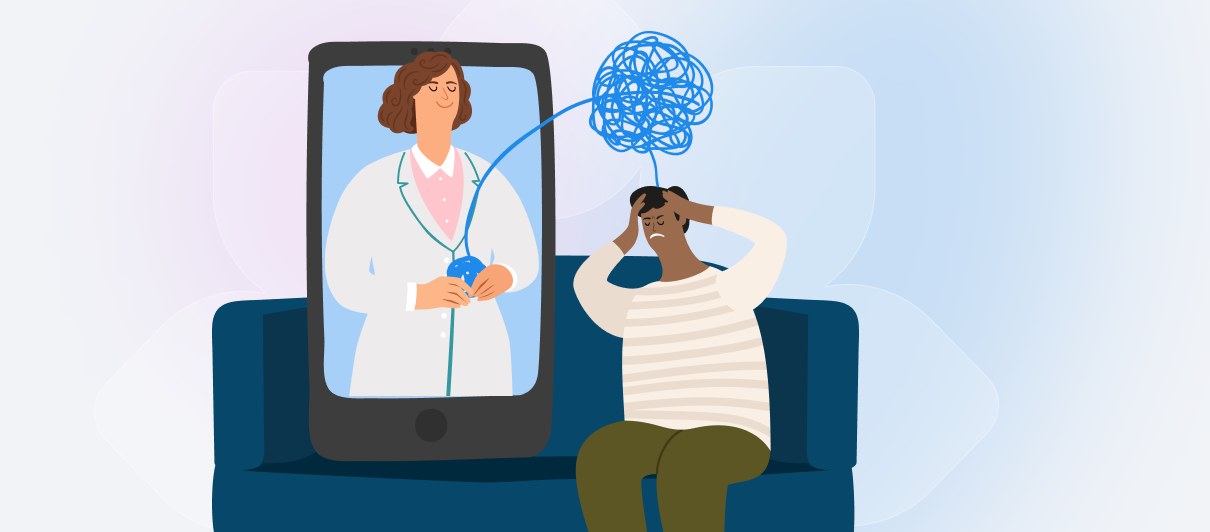
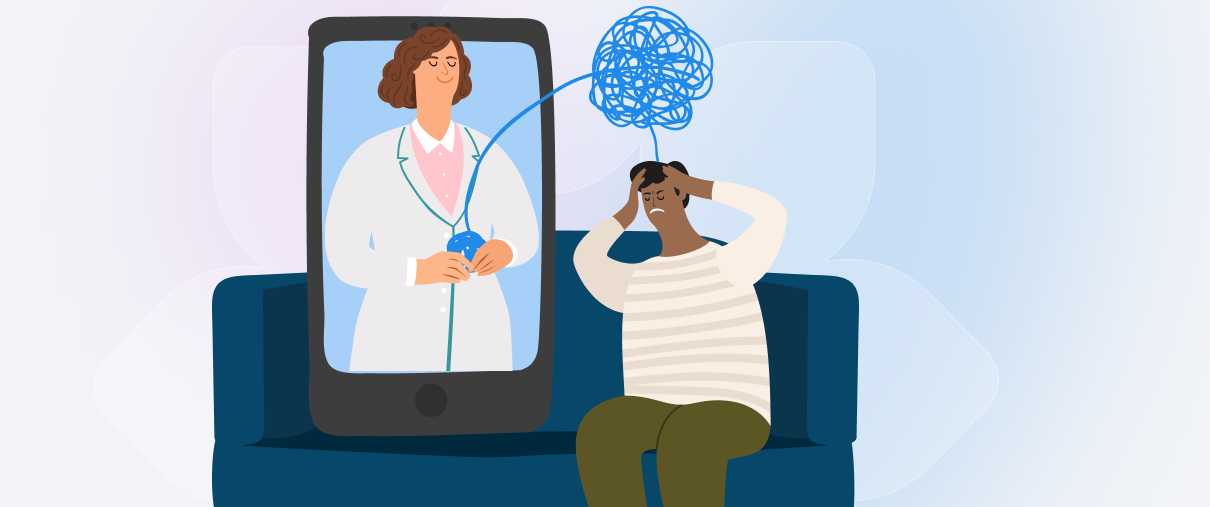
15/04/2025

diff --git a/index.html b/index.html
@@ -112,7 +112,7 @@
       <main>
         <div class="slideshow-container">
           <img class="slide fade" src="images/image1.png" alt="Image 1" />
-          <img class="slide fade" src="images/imageee - Copy.png" alt="Image 2" />
+          <img class="slide fade" src="images/image 2.jpg" alt="Image 2" />
           <img class="slide fade" src="images/image 3.png" alt="Image 3" />
         </div>
     </div>

diff --git a/index.css b/index.css
@@ -416,9 +416,10 @@ header {
 .slide {
   position: absolute;
   width: 100%;
-  height: 100%;
+  height:98%;
   opacity: 0;
   animation: fade 9s infinite;
+  object-fit: cover;
 }
 
 .slide:nth-child(1) {
@@ -451,7 +452,7 @@ header {
 
 img {
   width: 100%;
-  height: 100%;
+  height: 500px;
   object-fit: cover;
 }
 
